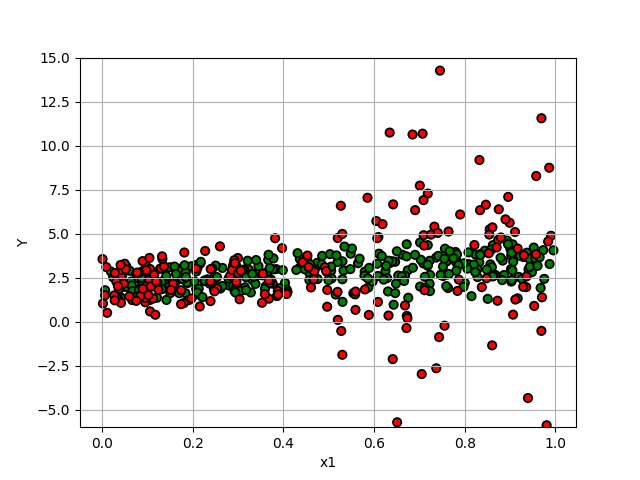
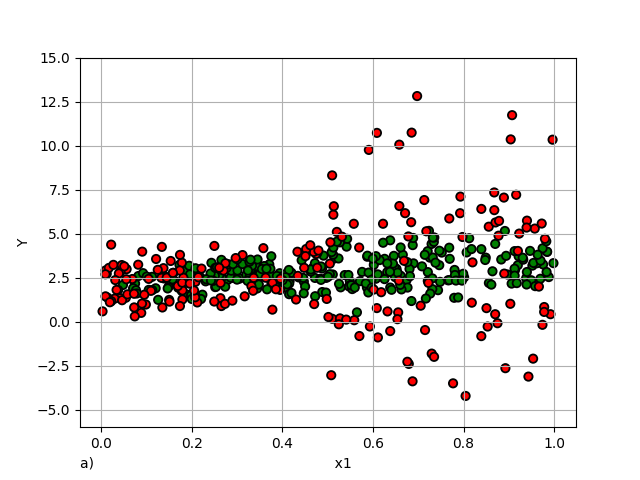
Окончательная версия программы

diff --git a/stands/StandForDistansesMCD.py b/stands/StandForDistansesMCD.py
@@ -32,7 +32,7 @@ class StandForDistansesMCD:
         colors = self.__FindDublicates(xAll, x)
 
         plt.plot()
-        plt.xlabel(xlabel)  # ось абсцисс
+        plt.xlabel(xlabel, loc="left")  # ось абсцисс
         plt.ylabel(ylabel)  # ось
         plt.xlim()
         plt.ylim(lims[0], lims[1])
@@ -45,7 +45,7 @@ class StandForDistansesMCD:
         colors = self.__FindDublicates(xAll, x)
 
         plt.plot()
-        plt.xlabel(xlabel)  # ось абсцисс
+        plt.xlabel(xlabel, loc="left")  # ось абсцисс
         plt.ylabel(ylabel)  # ось
         plt.xlim()
         plt.ylim(lims[0], lims[1])
@@ -70,8 +70,8 @@ class StandForDistansesMCD:
         mcdMethod_ = MCD_.MCDForStandDistances()
         mcdMethod_Modified = MCD_Modified.MCD_Modified()
 
-        lims1 = [-1, 15]
-        lims2 = [-6, 15]
+        lims1 = [-1, 20]
+        lims2 = [-2, 10]
 
         Y, xAll, xAll_h, y_res_h, dictionaryZones, sampleSizes, Z = modelForData.Main_Model(params=params)
 
@@ -79,38 +79,45 @@ class StandForDistansesMCD:
 
         self.__CreateGraficsForMCD_Di(fileName=f"SFD__diForx1 mcd {mode}", path="grafics/",
                                    xAll=X_n[0], x=X_h[0], di=di_n,
-                                   xlabel="x1", ylabel="di", lims=lims1)
+                                   xlabel="б)                                                       "
+                                          "x1", ylabel="di", lims=lims1)
 
         self.__CreateGraficsForMCD_Di(fileName=f"SFD__diForx2 mcd {mode}", path="grafics/",
                                    xAll=X_n[1], x=X_h[1], di=di_n,
-                                   xlabel="x2", ylabel="di", lims=lims1)
+                                   xlabel="б)                                                       "
+                                          "x2", ylabel="di", lims=lims1)
 
         self.__CreateGraficsForMCD_Y(fileName=f"SFD__Y_Forx1 mcd {mode}", path="grafics/",
                                    xAll=X_n[0], x=X_h[0], y=Y_n,
-                                   xlabel="x1", ylabel="Y", lims=lims2)
+                                   xlabel="б)                                                       "
+                                          "x1", ylabel="Y", lims=lims2)
 
         self.__CreateGraficsForMCD_Y(fileName=f"SFD__Y_Forx2 mcd {mode}", path="grafics/",
                                    xAll=X_n[1], x=X_h[1], y=Y_n,
-                                   xlabel="x2", ylabel="Y", lims=lims2)
+                                   xlabel="б)                                                       "
+                                          "x2", ylabel="Y", lims=lims2)
 
-        lims1 = [-1, 15]
-        lims2 = [-6, 15]
+
         X_n, X_h, Y_n, di_n = mcdMethod_Modified.Main_MCD(X=xAll,Y=Y, dictionaryZones=dictionaryZones,
                                                                        sampleSizes=sampleSizes, Z=Z, n=n, h=h,
                                                                        numberZones=numberZones)
 
         self.__CreateGraficsForMCD_Di(fileName=f"SFD__diForx1 mcd_modified {mode}", path="grafics/",
                                       xAll=X_n[0], x=X_h[0], di=di_n,
-                                      xlabel="x1", ylabel="di", lims=lims1)
+                                      xlabel="a)                                                       "
+                                             "x1", ylabel="di", lims=lims1)
 
         self.__CreateGraficsForMCD_Di(fileName=f"SFD__diForx2 mcd_modified {mode}", path="grafics/",
                                       xAll=X_n[1], x=X_h[1], di=di_n,
-                                      xlabel="x2", ylabel="di", lims=lims1)
+                                      xlabel="а)                                                       "
+                                             "x2", ylabel="di", lims=lims1)
 
         self.__CreateGraficsForMCD_Y(fileName=f"SFD__Y_Forx1 mcd_modified {mode}", path="grafics/",
                                      xAll=X_n[0], x=X_h[0], y=Y_n,
-                                     xlabel="x1", ylabel="Y", lims=lims2)
+                                     xlabel="а)                                                       "
+                                            "x1", ylabel="Y", lims=lims2)
 
         self.__CreateGraficsForMCD_Y(fileName=f"SFD__Y_Forx2 mcd_modified {mode}", path="grafics/",
                                      xAll=X_n[1], x=X_h[1], y=Y_n,
-                                     xlabel="x2", ylabel="Y", lims=lims2)
+                                     xlabel="а)                                                       "
+                                            "x2", ylabel="Y", lims=lims2)

diff --git a/main.py b/main.py
@@ -35,26 +35,26 @@ def main():
     n, tetta, p = 500, np.array([1., 1.5, 2.]), 3
     limit = 1.0
     outlier = 0.
-    nCycle = 50
+    nCycle = 100
     h = [252, 300, 350, 400, 450]
     hDistances = 300
     # grafic - отображение зависимости кси от выбросов
     # oneOutput - вывод в консоль значений показателей точности оценивания
     # для LS, MCD, M-estimators of Cauchy and Huber
-    modeForGrafic = "textOutput" # "textOutput" or "grafic" or "grafic_for_N"
+    modeForGrafic = "grafic" # "textOutput" or "grafic" or "grafic_for_N"
 
     # Only: "normal" "cauchy" "exponent" "normal_Mod" "cauchy_Mod" "exponent_Mod"
     # For I model (only normal) [[0.01, 0.1, 1, 2], [0.1, 0.25, 2, 3], [0.01, 0.1, 3, 5], [0.1, 0.5, 5., 7.]]
-    # emissionZones = [[0.01, 0.01, 0.25, 0.25], [0.25, 0.25, 5., 5.]]
+    # emissionZones = [[0.2, 0.2, 1., 1.]]
     # mode = "normal_Mod"
 
     # For II model (normal + cauchy) [0.01, 0.1, 1, 1], [0.1, 0.25, 1, 1], [0.25, 0.5, 1, 1]
-    emissionZones = [[0.25, 0.25, 1, 1]]
-    mode = "cauchy_Mod"
+    # emissionZones = [[0.35, 0.35, 1, 1]]
+    # mode = "cauchy_Mod"
 
-    # For III model (normal + exp) [0.01, 0.1, 0.5, 1], [0.1, 0.25, 1, 2], [0.01, 0.1, 2, 5]
-    # emissionZones = [[0.01, 0.1, 0.5, 1]]
-    # mode = "exponent_Mod"
+    # For III model (normal + exp) [0.01, 0.01, 0.5, 0.5], [0.25, 0.25, 0.5, 0.5], [0.25, 0.25, 1., 1.]
+    emissionZones = [[0.35, 0.35, 1., 1.]]
+    mode = "exponent_Mod"
 
 
     standForFourMethods = StandForFourMethods.StandForFourMethods()
@@ -75,9 +75,9 @@ def main():
     paramsForDistanses = {"n": n, "tetta": tetta, "outlier": outlier, "limit": limit,
               "emissionZones": emissionZones[0], "hi": hDistances}
 
-    WriteTextDistances(params, mode, modeForGrafic)
+    # WriteTextDistances(params, mode, modeForGrafic)
     # WriteGraficForNAndWithOutlier(paramsForN, mode, modeForGrafic)
-    # WriteGraficForStandartDistances(paramsForDistanses, mode)
+    WriteGraficForStandartDistances(paramsForDistanses, mode)
 
 
 

diff --git a/stands/StandForHGOutliers.py b/stands/StandForHGOutliers.py
@@ -192,13 +192,13 @@ class StandForHGOutliers:
             fileName=f"С_выбросами_все_графики{mode}_n_{n}_nCycle_{nCycle}_points_{len(outSaver)}",
             path=f"grafics/{mode}/", outSaverX=outSaver,
             paramMethodsY={"iLS": iLS, "iMCD": iMCD, "iMCD_Mod": iMCD_Mod, "iHuber": iHuber, "iCauchy": iCauchy},
-            about=["МНК", "MCD", "MCD модификация", "М-оценки Хьюбер", "М-оценки Коши"], xlabel="Выбросы", ylabel="Показатель точности")
+            about=["МНК", "MCD", "MCD модификация", "М-оценки Хьюбера", "М-оценки Коши"], xlabel="Выбросы", ylabel="Показатель точности")
 
         self.__CreateThreeDistrGrafic(
             fileName=f"С_выбросами_три_графика{mode}_n_{n}_nCycle_{nCycle}_points_{len(outSaver)}_МНК_MCD_Хьюбер",
             path=f"grafics/{mode}/", outSaverX=outSaver,
             paramMethodsY={"iFirst": iCauchy, "iSecond": iMCD, "iThird": iHuber},
-            about=["М-оценки Коши", "MCD", "М-оценки Хьюбер"], xlabel="Выбросы",
+            about=["М-оценки Коши", "MCD", "М-оценки Хьюбера"], xlabel="Выбросы",
             ylabel="Показатель точности")
 
         self.__CreateThreeDistrGrafic(
